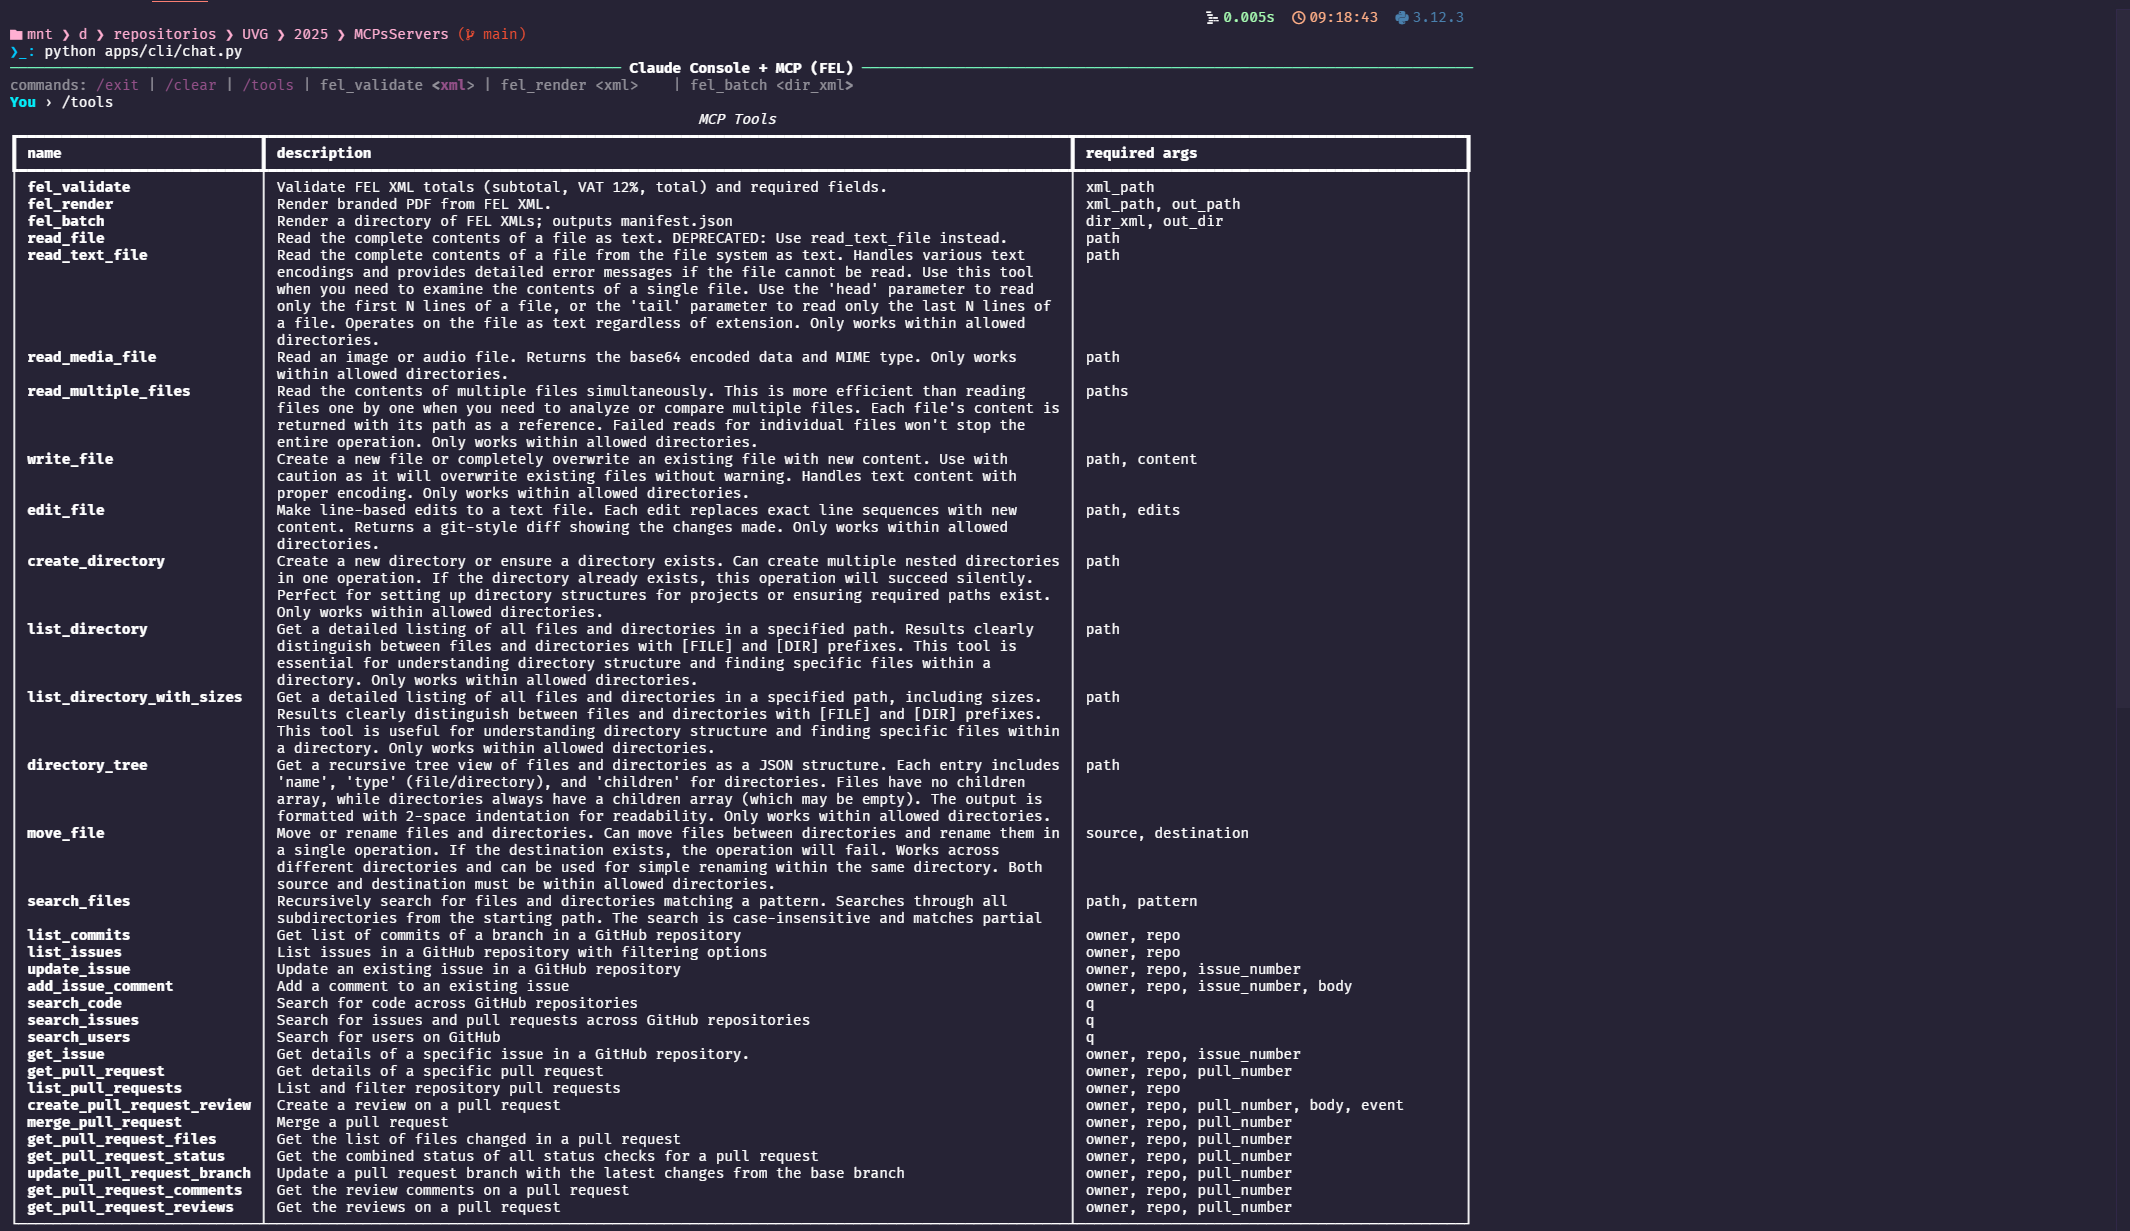
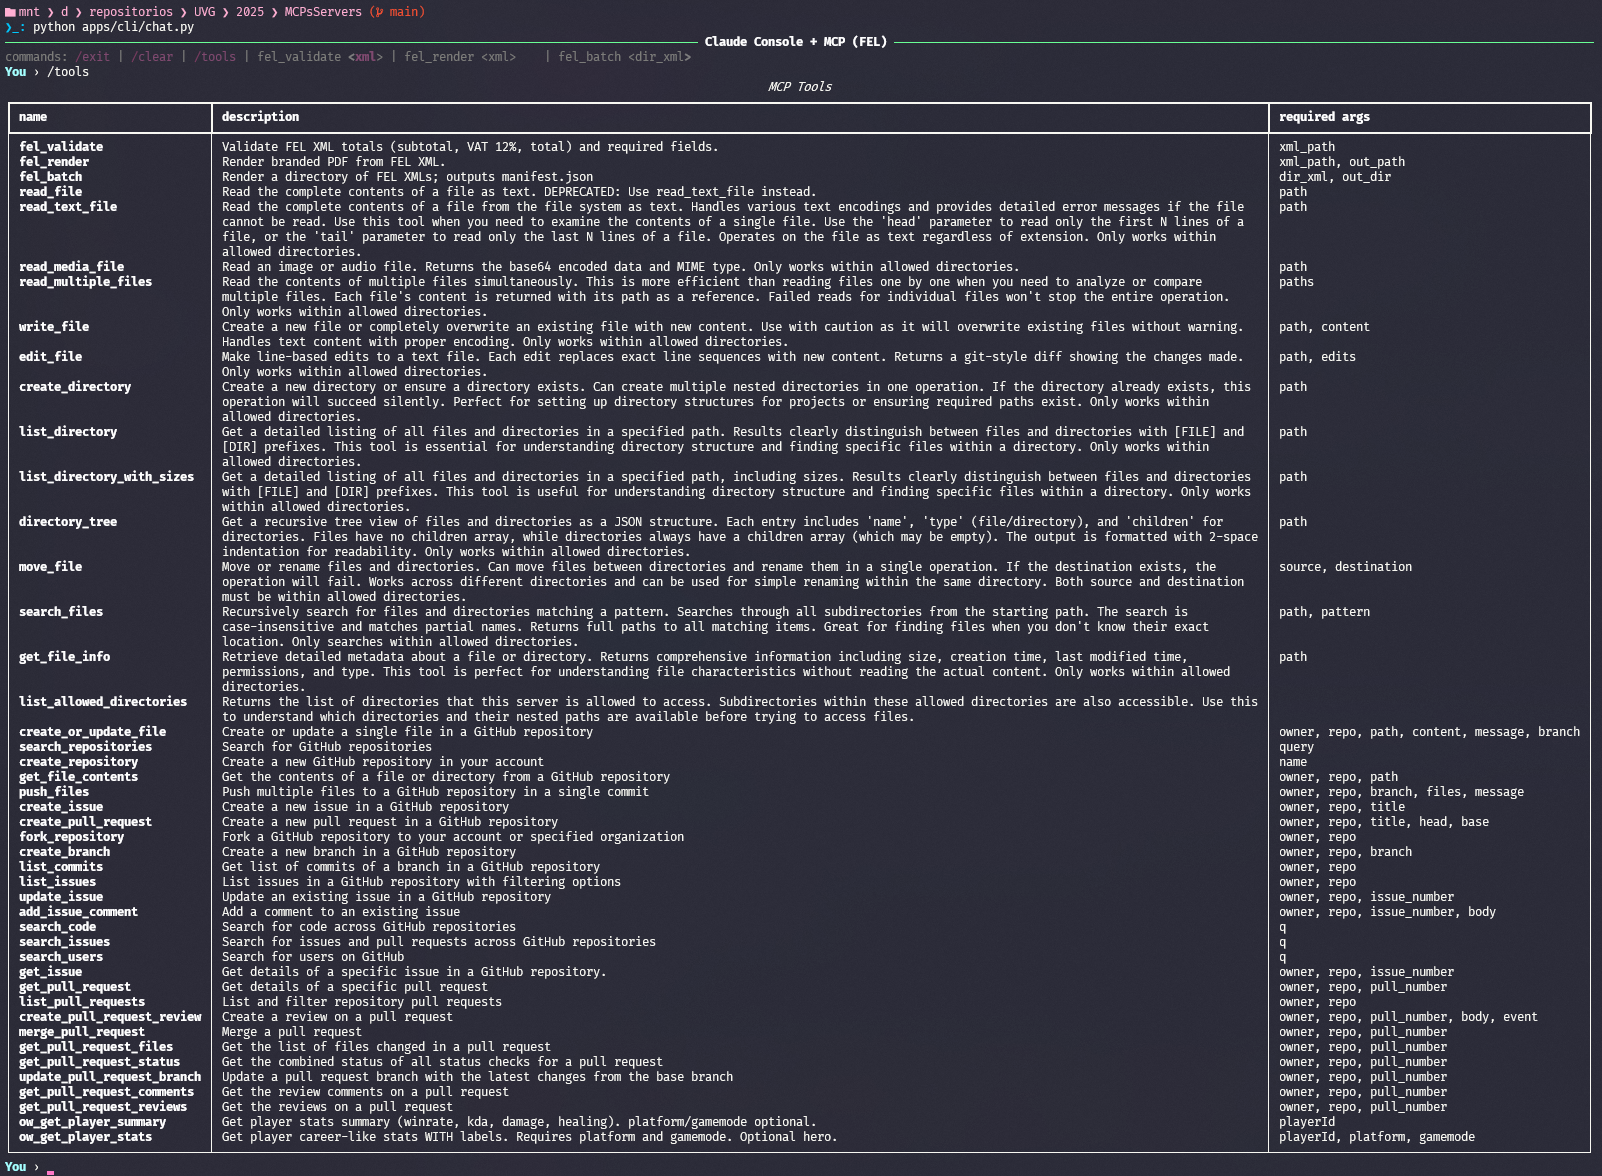
update docs readme

diff --git a/README.md b/README.md
@@ -1,30 +1,37 @@
-# Claude Console + MCP (FEL)
+# Claude Console + MCP (FEL + Overwatch)
 
-This project implements a **console-based chatbot** that connects to **Anthropic Claude** via API and integrates with **Model Context Protocol (MCP)** servers.  
-The chatbot can **maintain conversational context**, automatically decide when to use tools, and log all interactions in structured JSONL files.  
-It includes a custom **FEL MCP server** that validates and renders **Guatemalan FEL electronic invoices** into branded PDFs.
+This project implements a **console chatbot** that connects to **Anthropic Claude** via API and integrates multiple **Model Context Protocol (MCP)** servers.
+The chatbot can **maintain conversational context**, automatically decide when to use tools, and log all interactions in structured JSONL files.
 
-> **Monorepo notice:** This repository consolidates two implemented codebases: the **chatbot (CLI/UI)** and the **local FEL MCP server**.  
->
-> It also links to a third repository used **only as reference** for API connection patterns.
+It includes a **local FEL MCP** that validates and renders **Guatemalan electronic invoices (FEL)** in PDF with watermark, and a **remote Overwatch MCP (HTTP, cloud-deployed)** that allows querying player statistics.
 
-## 🔗 Related repositories
+> **Monorepo notice:** This repository consolidates two implemented codebases: the **chatbot (CLI/UI)** and the **local FEL MCP**.
+> Additionally, it includes an **Overwatch MCP (HTTP, Cloud Run)** and links a reference repository for connection patterns.
 
-- [Chatbot (CLI / UI)](https://github.com/JosueSay/ChatBotMCP) — Implemented and unified in this monorepo.
-- [MCP FEL (Local)](https://github.com/JosueSay/MCPLocalFEL) — Implemented and unified in this monorepo.
-- [Reference: OpenAI Chat API Example](https://github.com/JosueSay/Selectivo_IA/blob/main/docs_assistant/README.md) — Reference only (used for connection patterns, instruction context).
+## 🔗 Related Repositories
+
+- [Chatbot (CLI / UI)](https://github.com/JosueSay/ChatBotMCP) — Integrated in this monorepo.
+- [FEL MCP (Local)](https://github.com/JosueSay/MCPLocalFEL) — Integrated in this monorepo.
+- [Reference: OpenAI Chat API Example](https://github.com/JosueSay/Selectivo_IA/blob/main/docs_assistant/README.md) — Reference only (connection patterns).
 
 ## ✨ Features
 
 - Connects to **Anthropic Claude API** (LLM).
-- Maintains conversational context during a session.
+- Maintains conversational context throughout the session.
 - Supports **manual and automatic tool usage**.
-- Integrated **FEL MCP tools**:
-  - `fel_validate`: Validate XML totals (subtotal, VAT 12%, total).
-  - `fel_render`: Render branded PDF invoices from FEL XML.
-  - `fel_batch`: Render multiple XML invoices into PDFs + manifest.
-- Session logs stored as **structured JSONL**.
-- Path sandboxing (`ALLOWED_ROOTS`) to prevent unsafe file access.
+- Integrated tools:
+
+  - **FEL MCP (local):**
+
+    - `fel_validate`: validates XML totals (subtotal, 12% VAT, total).
+    - `fel_render`: generates PDF invoices with watermark from XML.
+    - `fel_batch`: processes multiple XML invoices → PDFs + manifest.json.
+  - **Overwatch MCP (HTTP, cloud):**
+
+    - `ow_get_player_summary`: summary of player stats (winrate, KDA, damage, healing).
+    - `ow_get_player_stats`: full stats with tags (by role, hero, mode).
+- Session logs saved in **structured JSONL**.
+- Sandbox paths (`ALLOWED_ROOTS`) to prevent unsafe file access.
 
 ## ⚙ Requirements
 
@@ -34,8 +41,8 @@ It includes a custom **FEL MCP server** that validates and renders **Guatemalan 
 
 ## 🔧 Installation
 
-When starting the chatbot, you can now run **multiple MCP servers at the same time**.  
-This allows you to combine local tools (e.g., FEL) with external integrations like **Filesystem** and **GitHub**.
+When starting the chatbot, you can now run **multiple MCP servers in parallel**.
+This allows combining local tools (e.g., FEL) with external integrations such as **Overwatch (HTTP cloud)**, **Filesystem**, and **GitHub**.
 
 ### Environment Variables
 
@@ -49,9 +56,9 @@ GITHUB_TOKEN=your_token # Personal Access Token (fine-grained or classic)
 
 # ---- MCPS ----
 MCP_FEL_CMD="/ABSOLUTE/PATH/venv/bin/python /ABSOLUTE/PATH/servers/fel_mcp_server/server_stdio.py"
-MCP_URL=url_mcp # pending
+MCP_URL=https://ow-mcp-server-XXXXXX.run.app/mcp # Your Overwatch MCP cloud URL
 
-# Multiple MCP servers (comma-separated)
+# Multiple MCPs (comma-separated)
 # Recommended order: FEL (local), Filesystem (Docker), GitHub (Docker)
 MCP_CMDS="/ABSOLUTE/PATH/venv/bin/python /ABSOLUTE/PATH/servers/fel_mcp_server/server_stdio.py,docker run --rm -i -v /ABSOLUTE/PATH/data/testing:/data node:22 npx -y @modelcontextprotocol/server-filesystem /data,docker run --rm -i -e GITHUB_TOKEN node:22 npx -y @modelcontextprotocol/server-github"
 
@@ -62,7 +69,7 @@ ROUTER_DEBUG=0 # 1: active | 0: inactive
 
 ### GitHub MCP
 
-To use the **GitHub MCP** you need:
+To use the **GitHub MCP**, you need to:
 
 1. Create a **personal token** (fine-grained or classic).
 
@@ -72,7 +79,7 @@ To use the **GitHub MCP** you need:
    git clone https://github.com/modelcontextprotocol/servers.git
    ```
 
-3. Replace `/ABSOLUTE/PATH/servers` in your `.env` with the actual path to the cloned repo.
+3. Replace `/ABSOLUTE/PATH/servers` in your `.env` with the actual cloned path.
 
 This way, the chatbot can launch and orchestrate multiple MCPs in parallel.
 
@@ -84,40 +91,67 @@ Start the chatbot from the project root:
 python apps/cli/chat.py
 ```
 
-You will see:
+You will see something like:
 
 ```bash
-───────────────────── Claude Console + MCP (FEL) ──────────────────────
-commands: /exit | /clear | /tools | fel_validate <xml> | fel_render <xml> | fel_batch <dir_xml>
+───────────────────── Claude Console + MCP (FEL + Overwatch) ──────────────────────
+commands: /exit | /clear | /tools
 You ›
 ```
 
-### Example
+### FEL Example
 
-```text
+```bash
 You › /tools
 MCP Tools
 name         | description                                  | required args
 -------------|----------------------------------------------|---------------
 fel_validate | Validate FEL XML totals and required fields  | xml_path
-fel_render   | Render branded PDF from FEL XML              | xml_path
-fel_batch    | Render directory of FEL XMLs -> manifest.json | dir_xml
+fel_render   | Generate PDF with watermark from FEL XML     | xml_path
+fel_batch    | Process FEL XML directory → manifest         | dir_xml
 ```
 
 ```bash
 You › puedes validar precios de data/xml/factura.xml?
 La validación de la factura fue exitosa. Los totales calculados son:
 
- • Subtotal: Q8,010.59
- • IVA (12%): Q961.27
- • Total: Q8,971.86
+ • Subtotal: Q8,010.59  
+ • IVA (12%): Q961.27  
+ • Total: Q8,971.86  
 
 No se encontraron errores en los precios ni en los campos requeridos.
 ```
 
-If absolute paths for the official MCP servers were set, you can now have more tools available: **FEL + System Files + GitHub**.
+### Overwatch Example (HTTP)
 
-![Official MCP Tools in Action](./images/mcp_tools.png)
+```bash
+You › resume Overwatch stats for player YSE#11202 using ow_get_player_summary
+Overall Performance:
+
+ • 4,263 games played with a 52.8% winrate (2,251 wins, 2,012 losses)
+ • 608 hours total playtime
+ • 3.03 KDA ratio with 15.07 average eliminations per game
+
+Role Distribution:
+
+ • Tank: 1,699 games (51.85% winrate, 3.27 KDA)
+ • Damage: 1,241 games (53.42% winrate, 3.08 KDA)
+ • Support: 1,323 games (53.44% winrate, 2.64 KDA)
+
+Top Heroes by Games Played:
+
+ 1 Doomfist - 523 games (47.8% winrate)
+ 2 Lucio - 332 games (58.73% winrate)
+ 3 Junkrat - 289 games (56.06% winrate)
+ 4 Reinhardt - 229 games (60.26% winrate)
+ 5 Cassidy - 203 games (55.17% winrate)
+
+The player shows solid performance across all roles with slightly better winrates on damage and support heroes compared to tank. Lucio and Reinhardt appear to be among their strongest heroes with high winrates.
+```
+
+With absolute paths configured for official servers, you can now access more tools: **FEL + Overwatch (cloud) + Filesystem + GitHub**.
+
+![MCP Tools in action](./images/mcp_tools.png)
 
 ## 🗂 Project Structure
 
@@ -125,22 +159,83 @@ If absolute paths for the official MCP servers were set, you can now have more t
 .
 ├── apps/
 │   ├── cli/
-│   │   └── chat.py           # CLI chatbot frontend
-│   └── ui/                   # Pending: future UI frontend
+│   │   └── chat.py             # Chatbot CLI frontend
+│   └── ui/                     # Pending: possible UI frontend
 ├── core/
-│   ├── engine.py             # Orchestration layer (Claude + MCP)
-│   ├── mcp_stdio.py          # Minimal JSON-RPC client for MCP servers
-│   └── settings.py           # Environment and configuration
-├── servers/fel_mcp_server/   # FEL MCP server (validate, render, batch)
+│   ├── engine.py               # Orchestration (Claude + MCP)
+│   ├── mcp_stdio.py            # JSON-RPC client (MCP via stdio/local)
+│   ├── mcp_http.py             # JSON-RPC client (MCP via HTTP/remote)
+│   └── settings.py             # Configuration and environment variables
+├── servers/
+│   ├── fel_mcp_server/         # FEL MCP (validate, render, batch)
+│   └── ow_mcp_server/          # Overwatch MCP (HTTP + stdio)
+│       ├── config.py           # Constants (platforms, modes, roles)
+│       ├── ow_api.py           # Overfast API calls (stats and summary)
+│       ├── server_http.py      # MCP server via HTTP (cloud deployment)
+│       └── server_stdio.py     # MCP server via stdio (for local use)
 ├── data/
-│   ├── logos/                # Image logo
-│   ├── xml/                  # Sample FEL XML input
-│   └── out/                  # PDF output
-├── logs/sessions/            # Session logs (.jsonl)
+│   ├── logos/                  # Company logos
+│   ├── xml/                    # Example FEL invoice XMLs
+│   ├── out/                    # Output PDFs
+│   └── testing/                # Test files (filesystem MCP)
+├── logs/sessions/              # Session logs (.jsonl)
 ├── assets/
-│   ├── fonts/                # Custom fonts (Montserrat, Roboto Mono)
-│   └── images/               # Icons (phone, email, web)
-└── docs/                     # Documentation MCP + Code
+│   ├── fonts/                  # Custom fonts (Montserrat, Roboto Mono)
+│   └── images/                 # Icons (phone, email, web)
+└── docs/                       # Project and MCP documentation
+```
+
+### Workflow
+
+```mermaid
+flowchart LR
+  subgraph User["CLI / UI"]
+    U["Terminal<br/>apps/cli/chat.py"]
+  end
+
+  subgraph Core["Core (chatbot engine)"]
+    E["engine.py<br/>(Claude + MCP router)"]
+    S1["mcp_stdio.py"]
+    S2["mcp_http.py"]
+    CFG["settings.py<br/>(.env)"]
+    LOG["logs/sessions/*.jsonl"]
+  end
+
+  subgraph LLM["Anthropic Claude API"]
+    C["Claude<br/>(model)"]
+  end
+
+  subgraph MCPs_Local["Local MCPs (STDIO)"]
+    FEL["fel_mcp_server/server_stdio.py<br/>FEL: validate/render/batch"]
+    FS["docker server-filesystem<br/>(@mcp/server-filesystem)"]
+    GH["docker server-github<br/>(@mcp/server-github)"]
+  end
+
+  subgraph MCPs_Remote["Remote MCPs (HTTP)"]
+    OW["ow_mcp_server/server_http<br/>Cloud Run URL /mcp<br/>ow_get_player_*"]
+  end
+
+  subgraph RepoData["Local resources"]
+    ASSETS["assets/<br/>fonts, images"]
+    DATA["data/<br/>xml, out, testing"]
+  end
+
+  U --> E
+  E --> C
+
+  E -. "tools:list/call" .-> S1
+  E -. "tools:list/call" .-> S2
+
+  S1 --> FEL
+  S1 --> FS
+  S1 --> GH
+
+  S2 --> OW
+
+  E <--> LOG
+  FEL -. "uses" .-> ASSETS
+  FEL <--> DATA
+  FS -. "mounts" .-> DATA
 ```
 
 ## 📝 Logs
@@ -170,13 +265,6 @@ These logs allow you to trace **tool usage**, **LLM decisions**, and **outputs**
 - `ALLOWED_ROOTS` defines directories where MCP tools can access files (`data/xml`, `data/out`, `data/logos` by default).
 - Any path outside of these roots will be **blocked** for safety.
 - Logs may contain sensitive invoice data -> review before sharing.
-
-## 📚 References
-
-- [Model Context Protocol](https://modelcontextprotocol.io/)
-- [Anthropic API Docs](https://docs.anthropic.com/en/api)
-- [Antrhopic Build an MCP Server](https://modelcontextprotocol.io/quickstart/server)
-- [JSON-RPC 2.0](https://www.jsonrpc.org/)
 
 ## 🖥 Using with Claude Desktop + MCP
 
@@ -227,6 +315,14 @@ Stop-Process -Name "Claude" -Force; Start-Process "<absolute_path>\Claude.exe"
 
 Here `<absolute_path>\Claude.exe` should be replaced with the full path to your Claude installation, for example:
 `C:\Users\<username>\AppData\Local\AnthropicClaude\Claude.exe`
+
+## 📚 References
+
+- [Model Context Protocol](https://modelcontextprotocol.io/)
+- [Anthropic API Docs](https://docs.anthropic.com/en/api)
+- [Antrhopic Build an MCP Server](https://modelcontextprotocol.io/quickstart/server)
+- [JSON-RPC 2.0](https://www.jsonrpc.org/)
+- [Overwatch API](https://github.com/TeKrop/overfast-api)
 
 ## 🎬 Test Example
 
